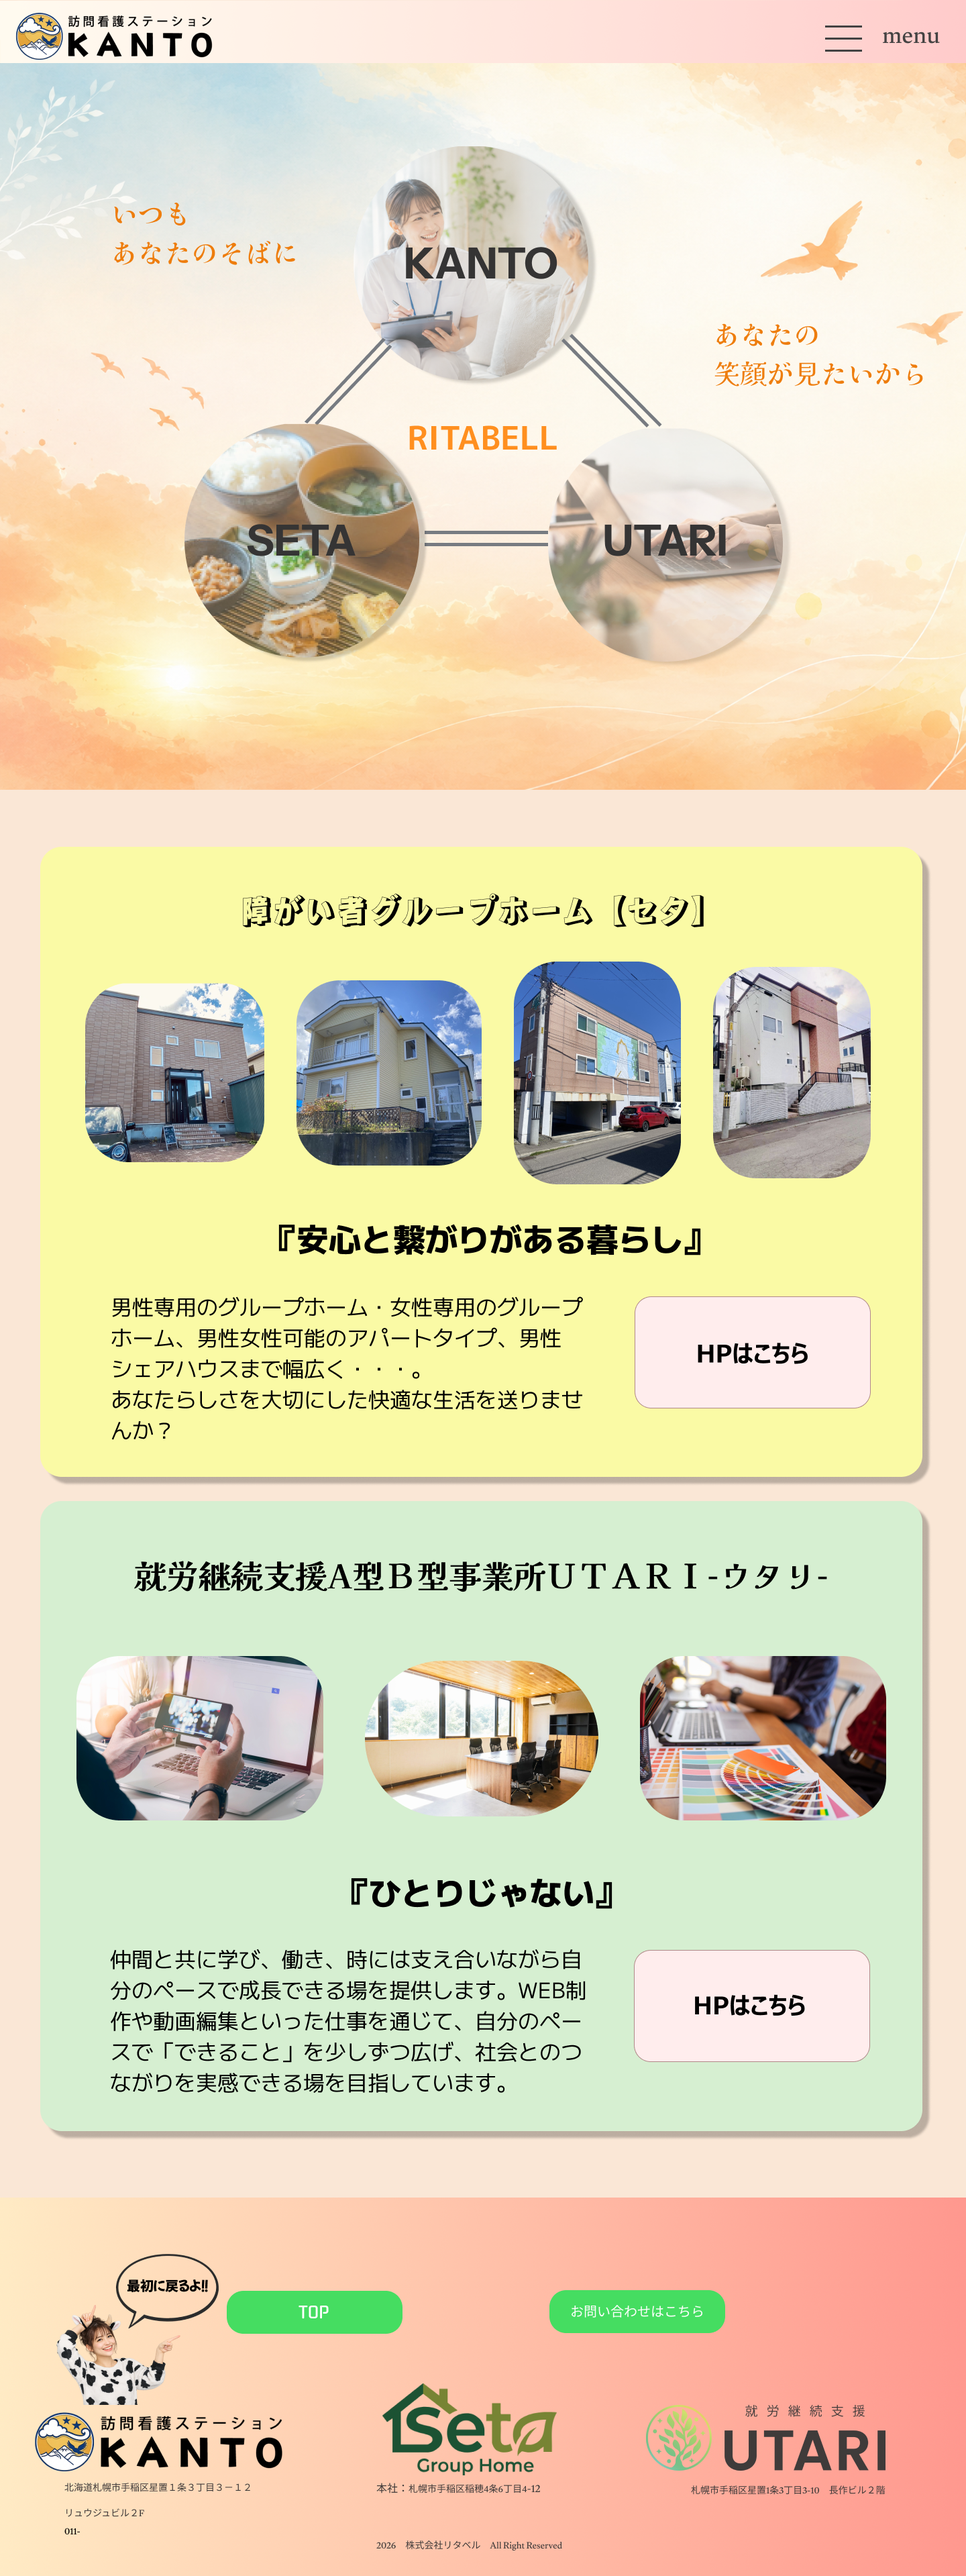
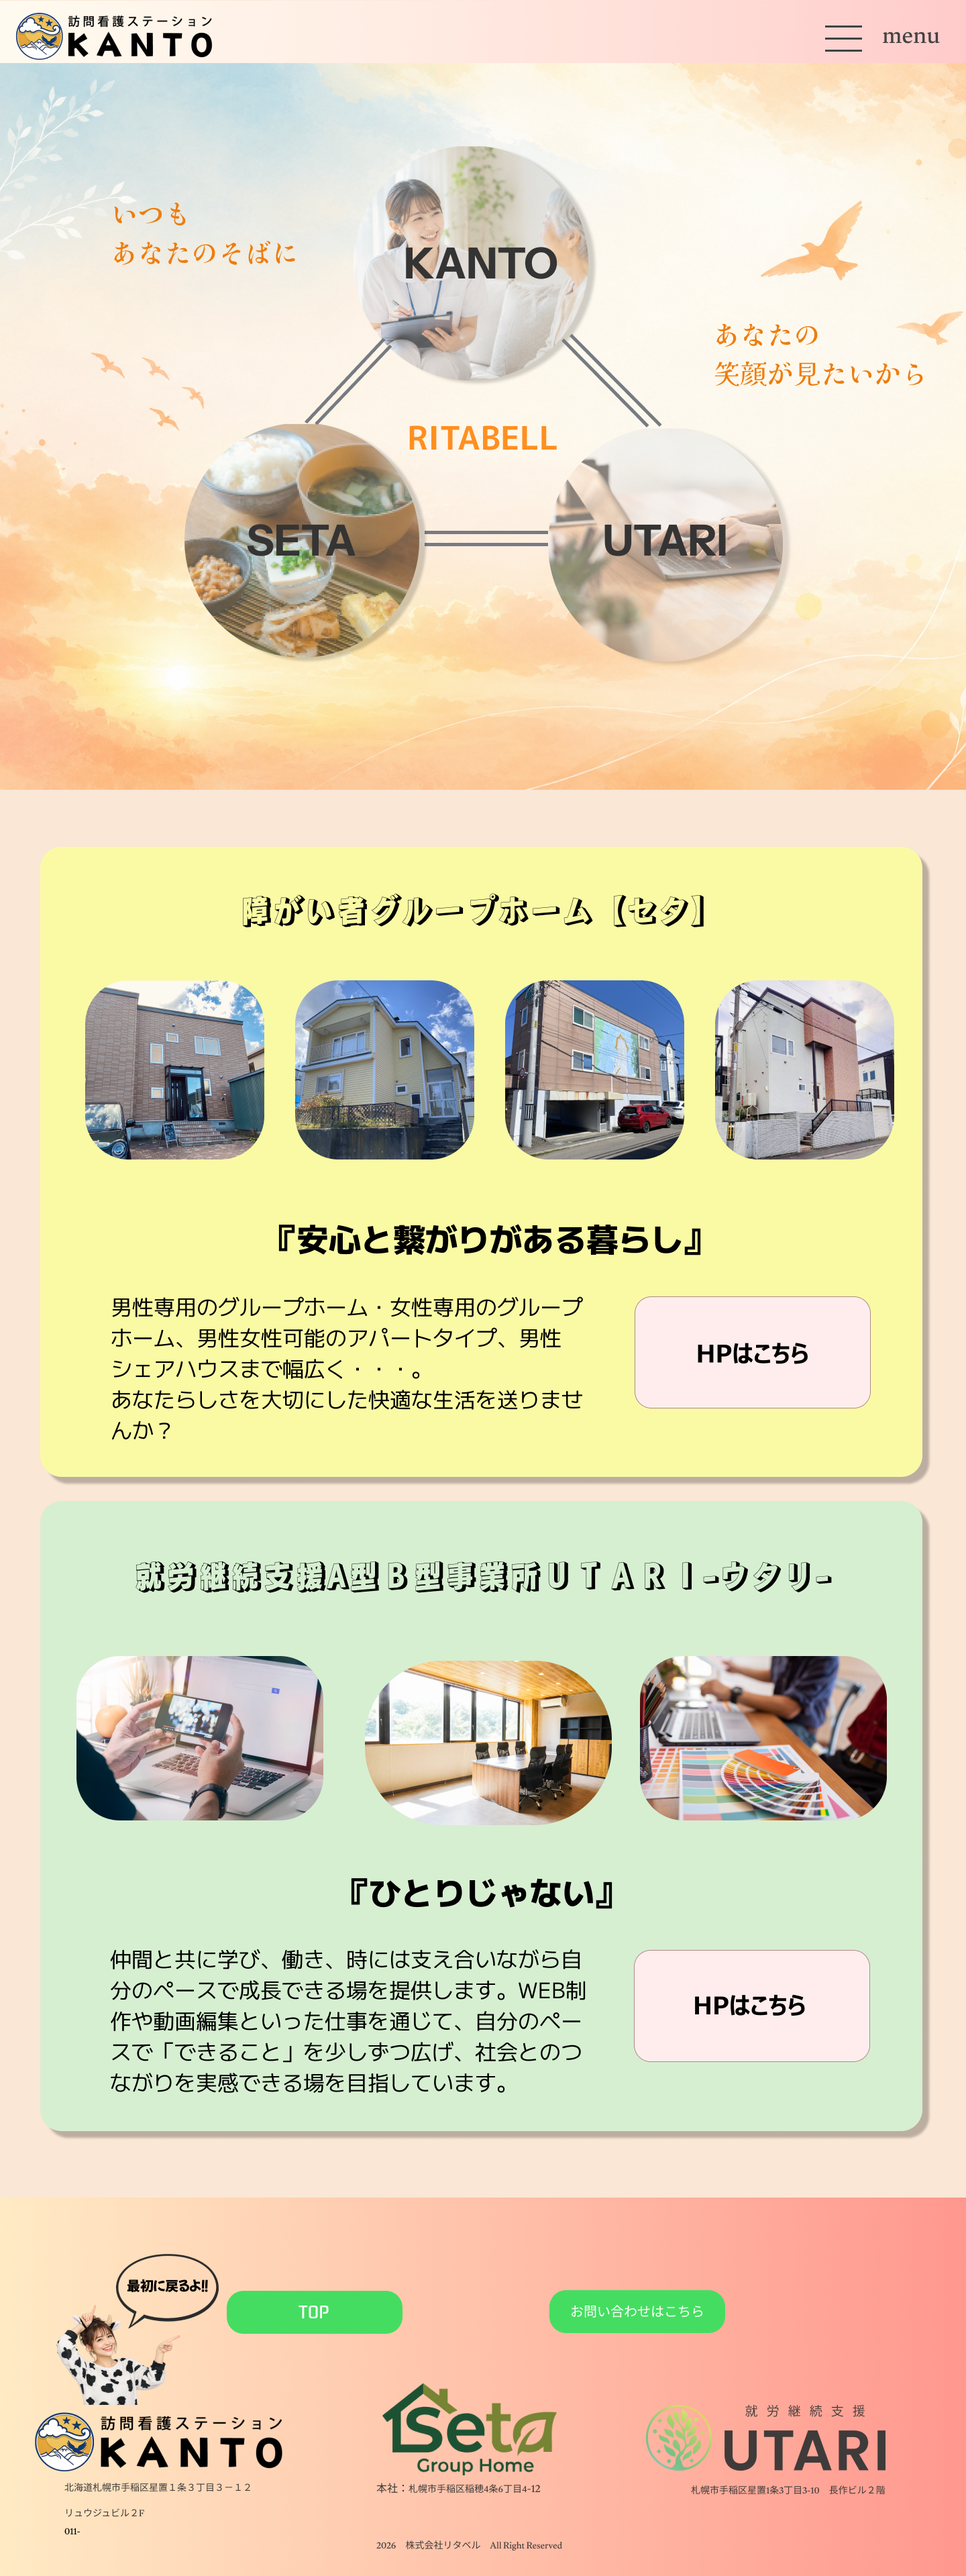
footer.css微調整 group.css微調整

diff --git a/css/page-group.css b/css/page-group.css
@@ -36,7 +36,7 @@
   top: 4.5rem;
   left: 50%;
   color: #ff791d;
-  font-family: Arial, sans-serif;
+  font-family: "Mplus 1p Bold", sans-serif;
   font-size: 6.4rem;
   font-weight: 700;
   letter-spacing: 0.04em;
@@ -100,7 +100,7 @@
     transform: translateY(-16rem);
   }
   .group-hero__company {
-    top: 53.2rem;
+    top: 52.2rem;
     z-index: 4;
     font-size: 4.8rem;
   }
@@ -160,8 +160,8 @@
   width: 36rem;
 }
 .group-hero__item--utari {
-  top: 69rem;
-  right: 27.5rem;
+  top: 70rem;
+  right: 26.5rem;
   width: 36rem;
 }
 
@@ -232,11 +232,11 @@
   margin-top: 8rem;
 }
 .group-service--seta {
-  background: #f4f782;
+  background: #fafaa5;
   height: 94rem;
 }
 .group-service--utari {
-  background: #c9fa7c;
+  background: #d6efd1;
 }
 .group-service__title {
   font-family: serif;
@@ -259,8 +259,8 @@
 .group-service__gallery--seta {
   grid-template-columns: repeat(4, 26.7rem);
   justify-content: space-between;
-  gap: 2rem;
-  margin: 5rem 6rem;
+  gap: 5rem;
+  margin: 8rem 6rem -3.5rem;
 }
 .group-service__gallery--seta figure {
   margin: 0;
@@ -287,7 +287,7 @@
   grid-template-columns: repeat(3, 36.8rem);
   justify-content: space-between;
   gap: 2rem;
-  margin: 6rem 5rem;
+  margin: 3rem 5rem 9rem;
 }
 @media screen and (max-width: 699.98px) {
   .group-service__gallery--utari {
@@ -370,8 +370,8 @@
 @media (min-width: 700px) {
   .group-service--utari .group-service__link {
     position: relative;
-    top: -6rem;
-    right: 6rem;
+    top: -5rem;
+    right: 8rem;
   }
 }
 .group-service__copy h3 {
@@ -432,7 +432,7 @@
     --group-unit: min(0.6944444444vw, 1rem);
   }
   .group-hero__inner {
-    height: calc(92 * var(--group-unit));
+    height: calc(108.3 * var(--group-unit));
   }
   .group-hero__company {
     top: calc(52.2 * var(--group-unit));
@@ -445,12 +445,12 @@
     font-size: calc(4 * var(--group-unit));
   }
   .group-hero__message--left {
-    top: calc(23 * var(--group-unit));
-    left: calc(11.2 * var(--group-unit));
+    top: calc(19 * var(--group-unit));
+    left: calc(16.2 * var(--group-unit));
   }
   .group-hero__message--right {
-    top: calc(45 * var(--group-unit));
-    right: calc(6.4 * var(--group-unit));
+    top: calc(37 * var(--group-unit));
+    right: calc(5.4 * var(--group-unit));
   }
   .group-hero__title {
     top: calc(68.2 * var(--group-unit));
@@ -458,7 +458,7 @@
     padding: calc(0.7 * var(--group-unit)) calc(2.2 * var(--group-unit));
   }
   .group-hero__item--kanto {
-    top: calc(25 * var(--group-unit));
+    top: calc(28 * var(--group-unit));
     width: min(25vw, 36rem);
   }
   .group-hero__item--seta {
@@ -467,25 +467,25 @@
     width: min(25vw, 36rem);
   }
   .group-hero__item--utari {
-    top: calc(69 * var(--group-unit));
-    right: calc(27.5 * var(--group-unit));
+    top: calc(70 * var(--group-unit));
+    right: calc(26.5 * var(--group-unit));
     width: min(25vw, 36rem);
   }
   .group-hero__line--left-1 {
     top: calc(55.5 * var(--group-unit));
-    left: calc(49 * var(--group-unit));
+    left: calc(45 * var(--group-unit));
   }
   .group-hero__line--left-2 {
     top: calc(55 * var(--group-unit));
     left: calc(47.5 * var(--group-unit));
   }
   .group-hero__line--right-1 {
-    top: calc(56 * var(--group-unit));
-    right: calc(52.5 * var(--group-unit));
+    top: calc(57 * var(--group-unit));
+    right: calc(45.5 * var(--group-unit));
   }
   .group-hero__line--right-2 {
-    top: calc(57 * var(--group-unit));
-    right: calc(49.5 * var(--group-unit));
+    top: calc(56 * var(--group-unit));
+    right: calc(44.5 * var(--group-unit));
   }
   .group-hero__line--bottom {
     top: calc(84.5 * var(--group-unit));
@@ -521,8 +521,11 @@
     gap: calc(2 * var(--group-unit));
   }
   .group-service__gallery--seta {
-    grid-template-columns: repeat(4, 1fr);
-    margin: calc(5 * var(--group-unit)) calc(6 * var(--group-unit));
+    grid-template-columns: repeat(4, calc(26.7 * var(--group-unit)));
+    justify-content: space-between;
+    gap: calc(5 * var(--group-unit));
+    margin: calc(8 * var(--group-unit)) calc(6 * var(--group-unit))
+      calc(-3.5 * var(--group-unit));
   }
   .group-service__gallery--seta figure:nth-child(n) {
     width: min(18.541667vw, 26.7rem);
@@ -530,8 +533,10 @@
     aspect-ratio: 1;
   }
   .group-service__gallery--utari {
-    grid-template-columns: repeat(3, 1fr);
-    margin: calc(6 * var(--group-unit)) calc(5 * var(--group-unit));
+    grid-template-columns: repeat(3, calc(36.8 * var(--group-unit)));
+    justify-content: space-between;
+    margin: calc(3 * var(--group-unit)) calc(5 * var(--group-unit))
+      calc(9 * var(--group-unit));
   }
   .group-service__gallery--utari img:nth-child(n) {
     width: min(25.555556vw, 36.8rem);
@@ -548,10 +553,10 @@
     font-size: calc(4.8 * var(--group-unit));
   }
   .group-service--seta .group-service__catch {
-    margin-top: calc(4 * var(--group-unit));
+    margin-top: calc(12 * var(--group-unit));
   }
   .group-service--utari .group-service__catch {
-    margin-top: calc(7 * var(--group-unit));
+    margin-top: calc(-2 * var(--group-unit));
   }
   /* 説明文の固定幅が画像・ボタンに重ならないよう、下段も同じ比率で可変にする */
   .group-service__content {
@@ -566,26 +571,24 @@
     font-size: calc(3.2 * var(--group-unit));
   }
   .group-service--seta .group-service__copy p {
-    width: auto;
-    height: auto;
+    width: calc(72 * var(--group-unit));
+    height: calc(23 * var(--group-unit));
     margin-left: calc(11 * var(--group-unit));
   }
   .group-service--utari .group-service__copy p {
-    width: auto;
+    width: calc(72 * var(--group-unit));
     margin-left: calc(12 * var(--group-unit));
   }
   .group-service__link {
     min-height: calc(16.5 * var(--group-unit));
     padding: calc(2 * var(--group-unit));
-    font-size: calc(3 * var(--group-unit));
+    font-size: calc(3.2 * var(--group-unit));
     border-radius: calc(2.5 * var(--group-unit));
   }
   .group-service--seta .group-service__link,
   .group-service--utari .group-service__link {
-    top: auto;
-    right: auto;
-    margin-right: calc(4 * var(--group-unit));
-    align-self: center;
+    top: calc(-5 * var(--group-unit));
+    right: calc(8 * var(--group-unit));
   }
 }
 
@@ -641,7 +644,7 @@
   .group-hero__item figcaption {
     position: static;
     display: block;
-    margin-top: 0.7rem;
+    margin-top: 1.7rem;
     font-family: Arial, sans-serif;
     font-size: 4rem;
     font-weight: 700;
@@ -650,19 +653,19 @@
     transform: none;
   }
   .group-hero__item--seta figcaption {
-    margin-top: 3.7rem;
+    margin-top: 2.7rem;
   }
   .group-hero__item--utari figcaption {
-    margin-top: 2.8rem;
+    margin-top: 1.8rem;
   }
   .group-hero__item--kanto {
-    top: 14rem;
+    top: 13rem;
   }
   .group-hero__item--seta {
     top: 45.5rem;
   }
   .group-hero__item--utari {
-    top: 77rem;
+    top: 73rem;
   }
 
   .group-services {
@@ -670,7 +673,7 @@
   }
   .group-service {
     width: 100%;
-    padding: 0 0 7rem;
+    padding: 0 0 5rem;
     border-radius: 0;
     box-shadow: none;
   }
@@ -679,11 +682,11 @@
     height: 146rem;
   }
   .group-service--seta {
-    background: #d9f5d4;
+    background: #fafaa5;
     height: 222.7rem;
   }
   .group-service--utari {
-    background: #fff5e9;
+    background: #d6efd1;
   }
   .group-service__title {
     padding: 3.1rem 1rem;
@@ -701,11 +704,11 @@
   }
   .group-service__gallery {
     display: block;
-    margin-top: 6rem;
+    margin-top: 4rem;
     padding-inline: 4.5rem;
   }
   .group-service__gallery--seta {
-    margin: 7rem 0;
+    margin: 4rem 0;
   }
   .group-service__gallery--seta figure + figure {
     margin-top: 5.5rem;
@@ -736,6 +739,10 @@
     font-family: serif;
     font-size: 3.2rem;
     text-align: center;
+  }
+  /* 施設名はPHPに残し、現在のSP版Setaでは一時的に非表示にする */
+  .group-service__gallery--seta figcaption {
+    display: none;
   }
   .group-service__gallery--utari img {
     width: 100%;
@@ -816,10 +823,12 @@
     margin: 4rem 2rem;
   }
   .group-service--seta .group-service__copy p {
-    margin: 4rem 4rem;
+    margin: -1rem 4rem;
+    width: 33rem;
   }
   .group-service--utari .group-service__copy p {
-    margin: 4rem 2rem;
+    margin: -3rem 3.5rem;
+    width: 33rem;
   }
   .group-service__copy h3 {
     font-size: 2rem;
@@ -834,13 +843,17 @@
     width: 35.8rem;
     height: 8.2rem;
     min-height: 0;
-    margin: 4rem auto 0;
+    margin: 3rem auto 0;
     padding: 1.7rem 2.4rem;
     font-size: 2rem;
     font-family: "Meiryo UI", Meiryo, sans-serif;
     background: #ffb9bd;
     border: 0;
     border-radius: 1.5rem;
+  }
+  /* SP版はUTARIのホームページボタンだけ、Setaより1rem下へ配置する */
+  .group-service--utari .group-service__link {
+    margin-top: 5rem;
   }
   .group-service--seta .group-service__link {
     /* PC版で使っている位置調整を解除し、完成イメージどおり説明文の下に配置 */

diff --git a/css/footer.css b/css/footer.css
@@ -111,8 +111,8 @@
 
 /* 3事業所のロゴを重なり回避のため少し下へ移動 */
 .site-footer__group > a {
-  margin-bottom: 1.5rem;
-  transform: translateY(1.5rem);
+  margin-bottom: 0.5rem;
+  transform: translateY(2.5rem) translateX(-1.5rem);
 }
 
 /* 1440px時のPCデザインサイズを上限に、画像を画面幅に合わせて縮める */
@@ -332,15 +332,15 @@
   }
 
   .site-footer__group--kanto {
-    top: 32.7rem;
+    top: 28.7rem;
   }
 
   .site-footer__group--seta {
-    top: 53.5rem;
+    top: 50.5rem;
   }
 
   .site-footer__group--utari {
-    top: 75.8rem;
+    top: 72.8rem;
   }
 
   /* SP画像は390px時の指定サイズを上限にする */
@@ -358,7 +358,7 @@
   }
 
   .site-footer__address {
-    margin-top: 1.2rem;
+    margin-top: 3.2rem;
     padding-inline: 2rem;
   }
 
@@ -376,7 +376,7 @@
   }
 
   .site-footer__copyright {
-    bottom: 7.2rem;
+    bottom: 12.2rem;
     color: #fff;
     font-size: 1.3rem;
     white-space: nowrap;

diff --git a/page-group.php b/page-group.php
@@ -83,8 +83,8 @@ get_header();
 					<p>男性専用のグループホーム・女性専用のグループホーム、男性女性可能のアパートタイプ、男性シェアハウスまで幅広く・・・<br>あなたらしさを大切にした快適な生活を送りませんか？</p>
 				</div>
 				<a class="group-service__link" href="https://seta-gh.jp/" target="_blank" rel="noopener noreferrer">
-					<span class="group-service__link-label-pc">ホームページは<br>こちら</span>
-					<span class="group-service__link-label-sp">グループホーム【セタ】 ホームページ</span>
+					<span class="group-service__link-label-pc">HPはこちら</span>
+					<span class="group-service__link-label-sp">HPはこちら</span>
 				</a>
 			</div>
 		</section>
@@ -106,8 +106,8 @@ get_header();
 					<p>仲間と共に学び、働き、時には支え合いながら自分のペースで成長できる場を提供します。 WEB制作や動画編集といった仕事を通じて、自分のペースで「できること」を少しずつ広げ、社会とのつながりを実感できる場を目指しています。</p>
 				</div>
 				<a class="group-service__link" href="https://utari.jp/" target="_blank" rel="noopener noreferrer">
-					<span class="group-service__link-label-pc">ホームページは<br>こちら</span>
-					<span class="group-service__link-label-sp">UTARI－ウタリー　ホームページ</span>
+					<span class="group-service__link-label-pc">HPはこちら</span>
+					<span class="group-service__link-label-sp">HPはこちら</span>
 				</a>
 			</div>
 		</section>
